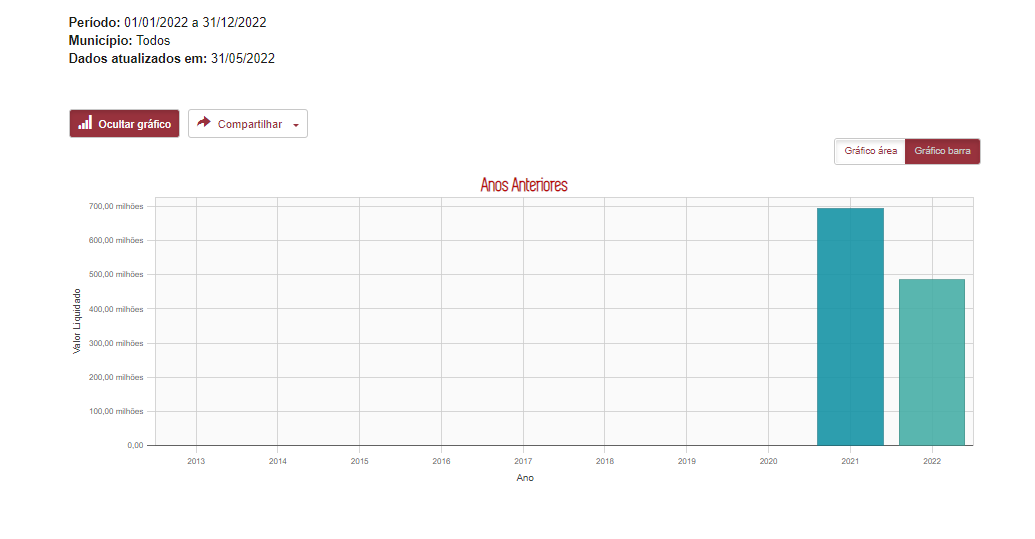
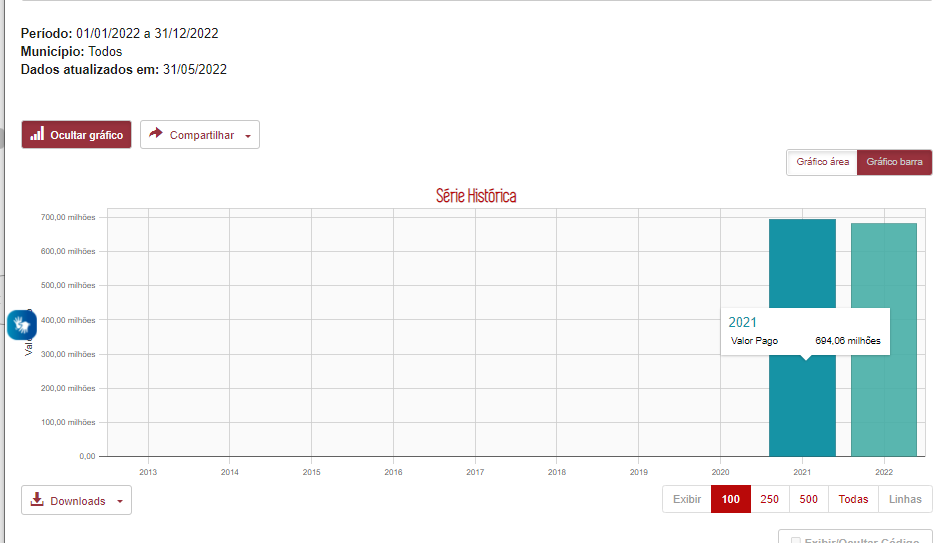
Verifica correção aplicada em 13/06/2022

diff --git a/espec018_recursos-acordo-judicial-vale/recursos-vale-homologa-layout-parte4.md b/espec018_recursos-acordo-judicial-vale/recursos-vale-homologa-layout-parte4.md
@@ -14,23 +14,36 @@ output:
 
 #### ERROS PENDENTES DE CORREÇÃO E/OU VERIFICAÇÃO
 
-## O resultado da consulta não corresponde ao período selecionado
 
-**Não corrigido** - Verificado em 26/05/2022
+<div class="alert alert-success">
+
+**CORRIGIDO** - Verificado em 13/06/2022
+--
+## O resultado da consulta não corresponde ao período selecionado
 
 Ao selecionar apenas o período de 2022 para o órgão Controladoria Geral do Estado a tabela de resultados apresenta valores zerados e quando é clicado no detalhamento os empenhos listados correspondem ao exercício de 2021.
 
 O empenho citado como exemplo apenas foi inscrito em RP em 2022 não havendo nenhuma execução referente a ele. Nesse sentido, ele deve ser exibido apenas quando houver liquidação e/ ou pagamento .
 
 ![](static/imagens/homologacao/empenho-nao-corresponde-periodo.gif)
-
+</div>
 ----
 
+<div class="alert alert-success">
+
+**CORRIGIDO** - Verificado em 13/06/2022
+--
 ## Trocar nome de 'todas' para 'todos', pois órgão é uma palavra masculina
 
 ![](static/imagens/homologacao/todas.png)
+</div>
 
 ---
+<div class="alert alert-danger">
+
+**CORRIGIDO PARCIALMENTE** - Verificado em 13/06/2022
+--
+A mensagem foi aplicada apenas no filtro "Favorecido por nome". Favor colocar a mensagem no filtro "Favorecido por CNPJ/CPF"
 
 ## Filtro favorecido da consulta por Execução
 
@@ -39,9 +52,15 @@ Ao clicar no filtro 'Favorecido por nome' ou Favorecido por CPF/CNPJ' e não esc
 Caso não seja possível a busca por todos os Favorecido o Portal deve apresentar uma mensagem informando que é preciso selecionar um favorecido, assim como ocorre atualmente nas consultas que se encontram em produção no PDT.
 
 ![](static/imagens/homologacao/filtro-favorecido.gif)
-
+</div>
 
 ---
+
+<div class="alert alert-success">
+
+**CORRIGIDO** - Verificado em 13/06/2022
+---
+
 ## Legenda da tabela ao selecionar o filtro favorecido
 
 Ao selecionar um Favorecido a legenda da tabela de resultados não está sendo exibida.
@@ -49,8 +68,13 @@ Ao selecionar um Favorecido a legenda da tabela de resultados não está sendo e
 Exemplo: [Consulta de Despesa](https://www.transparencia.mg.gov.br/despesa-estado/despesa/despesa-favorecidos/2022/01-01-2022/31-12-2022/0/CONSTRUTORA%20CENTRO%20LESTE%20ENGENHARIA/0/3)
 
 
-![](static/imagens/homologacao/filtro-favorecido-legenda.gif)
+![](static/imagens/homologacao/filtro-favorecido-legenda.png)
+</div>
+---
 
+<div class="alert alert-success">
+
+**CORRIGIDO** - Verificado em 13/06/2022
 ---
 
 ## Formatação dos textos
@@ -65,14 +89,23 @@ O fato está acontecendo no cabeçalho de todas as consultas.
 
 ![](static/imagens/homologacao/formatacao-anexo.png)
 
+</div>
 
 ---
+<div class="alert alert-success">
+
+**CORRIGIDO** - Verificado em 13/06/2022
+---
+
 ## Exibir/Ocultar filtros - pesquisa básica
 
 Conforme sugestão, favor desabilitar o botão onde não há coluna a ser exibida.
 
 Sugestão Prodemge:
 Nota: Sugiro que o botão exibir/oculta código fique desabilitado ou invisível nas consultas onde não há coluna de código a ser exibida. Assim que confirmado, podemos realizar o ajuste
+
+![](static/imagens/homologacao/ocultar-exibir-inativo.png)
+</div>
 
 ---
 ## Exibir/Ocultar filtros - Monte sua pesquisa
@@ -114,6 +147,12 @@ Exemplo 2 - Existe paginação, porém ao solicitar a exibição de todas as lin
 ![](static/imagens/homologacao/subtotal-paginacao2.gif)
 
 ---
+
+<div class="alert alert-success">
+
+**CORRIGIDO** - Verificado em 13/06/2022
+---
+
 ## Legenda do Gráfico
 
 **Consulta Por Execução - Gráfico de barras:** Trocar a legenda valor liquidado para "Valor Total Pago", pois o gráfico refere-se ao valor total Pago
@@ -124,14 +163,35 @@ Exemplo 2 - Existe paginação, porém ao solicitar a exibição de todas as lin
 **Consulta Transferência por Município - Gráfico de barras:** Trocar a legenda valor liquidado para "Valor Pago", pois o gráfico refere-se ao valor Pago.
 
 ![](static/imagens/homologacao/legenda-grafico2.png)
+</div>
 
+<div class="alert alert-danger">
+
+**CORRIGIDO PARCIALMENTE** - Verificado em 13/06/2022
+---
+Ficou pendente a correção do item 1 "*O gráfico deve-se referir a Classificação da Receita e não a Fonte de Recurso;*"
+
+![](static/imagens/homologacao/grafico-receita.png)
+
+---
 **Consulta Por Receita - Gráfico de barras:**
 
 1.  O gráfico deve-se referir a Classificação da Receita e não a Fonte de Recurso;
-2.  Trocar a legenda valor liquidado para "Valor Arrecadado".
+</div>
+<div class="alert alert-success">
+
+**CORRIGIDO** - Verificado em 13/06/2022
+---
 
 ![](static/imagens/homologacao/legenda-grafico3.png)
 
+</div>
+
+---
+
+<div class="alert alert-success">
+
+**CORRIGIDO** - Verificado em 13/06/2022
 ---
 
 ## Título do Gráfico
@@ -139,6 +199,7 @@ Exemplo 2 - Existe paginação, porém ao solicitar a exibição de todas as lin
 O título dos gráficos de barra devem ser 'Série Histórica'
 
 ![](static/imagens/homologacao/legenda-grafico4.png)
+</div>
 
 ---
 ## Valores do Gráfico
@@ -161,6 +222,11 @@ A funcionalidade foi aplicada apenas na consulta básica a pesquisa avançada ai
 
 
 ---
+<div class="alert alert-success">
+
+**CORRIGIDO** - Verificado em 13/06/2022
+---
+
 ## Migalhas / Cabeçalho
 
 **Não corrigido** - Verificado em 26/05/2022
@@ -171,7 +237,8 @@ Nesse questionamento foi realizado a alteração para exibição da descrição 
 
 O exemplo abaixo demonstra que ao selecionar o órgão DEER esse possui 4 projetos. Caso o usuário selecione algum projeto ele não saberá identificar pelo cabeçalho da tabela e migalha a qual projeto pertence a lista de empenhos. Assim é necessário retornar e fazer uma nova busca.
 
-![](static/imagens/homologacao/arvore-execucao.gif)
+![](static/imagens/homologacao/migalhas-codigo.png)
+</div>
 
 ----
 ## Download PDF - pesquisa básica
@@ -234,11 +301,18 @@ Favor desabitar a opção "Exportar" para o formulário de detalhamento, pois a 
 Essa funcionalidade será melhor estudada para futurar intervenções.
 
 ---
+<div class="alert alert-success">
+
+**CORRIGIDO** - Verificado em 13/06/2022
+---
+
 ## Outras informações - Formulário de detalhamento
 
 - O título da tabela está errado. Mudar parada 'Dados do Processo de Compra'
 
 ![](static/imagens/homologacao/outras-informacoes-processo-compra.png)
+
+</div>
 
 ---
 ## Filtro por Órgão
@@ -248,19 +322,29 @@ Ao selecionar o período de 01/01/2021 a 31/12/2021 e o órgão: 'Departamento d
 ![](static/imagens/homologacao/filtro-orgao-2021.gif)
 
 ---
-## Botão Sair
 
-**Não Corrigido** 30/05/2022
+<div class="alert alert-success">
+
+**CORRIGIDO** - Verificado em 13/06/2022
+---
+## Botão Sair
 
 - Ao clicar no botão sair a página do Portal apresenta erro
 
 ![](static/imagens/homologacao/botao-sair.gif)
+</div>
 
+---
+
+<div class="alert alert-success">
+
+**CORRIGIDO** - Verificado em 13/06/2022
 ---
 ## Adicionar/Remover colunas - Marcar/Desmarcar todos
 O botão até foi incluído, porém ele deve ser estilisticamente diferente dos filtros
 
 ![](static/imagens/homologacao/adcionar-remover-colunas.png)
+</div>
 
 ---
 ## Tabela Modal - Monte sua pesquisa
@@ -305,26 +389,43 @@ A depender do filtro que o usuário está usando ao clicar no botão detalhar el
 ![](static/imagens/homologacao/detalhar-monte-sua-pesquisa.gif)
 
 ---
+<div class="alert alert-success">
+
+**CORRIGIDO** - Verificado em 13/06/2022
+---
+
 ## Paginação tabela de resultados - Monte sua pesquisa
 
  A tabela de resultados do "Monte sua pesquisa" não está exibindo a opção de selecionar a quantidade de linhas, conforme padrão adotado nessa consulta
 
 ![](static/imagens/homologacao/paginacao-monte-sua-pesquisa.png)
+</div>
 
 ---
+<div class="alert alert-success">
+
+**CORRIGIDO** - Verificado em 13/06/2022
+---
+
 ## Subtotal/Total - tabela de resultados - Monte sua pesquisa
 
  A tabela de resultados não exibirá os campos TOTAL GERAL e o SUBTOTAL quando não houver dados referentes a valores.
 
 ![](static/imagens/homologacao/tabela-resultados-total-subtotal.png)
+</div>
 
+---
+
+<div class="alert alert-success">
+
+**CORRIGIDO** - Verificado em 13/06/2022
 ---
 ## Formatação - tabela de resultados - Monte sua pesquisa
 
 A formatação do cabeçalho da tabela deve ser alinhado à esquerda.
 
 ![](static/imagens/homologacao/formatacao-esquerda-monte-sua-pesquisa.png)
-
+</div>
 
 ---
 ## Tabelas modais - movíveis
@@ -335,11 +436,17 @@ Todas as tabelas modais (pesquisa básica e avançada) deverão ser movíveis, e
 
 
 ---
+<div class="alert alert-success">
+
+**CORRIGIDO** - Verificado em 13/06/2022
+---
+
 ## Barra de rolagem vertical
 
 Conforme relatado no issues [#71](https://github.com/transparencia-mg/especificacoes-portal-transparencia/issues/71) o O comportamento da barra de rolagem vertical não permite a visualização dos dados do início da tabela em todas as páginas da consulta
 
 ![](static/imagens/homologacao/barra-rolagem-vertical.gif)
+</div>
 
 ---
 ## Compartilhar
@@ -349,12 +456,17 @@ Conforme relatado no issues [#72](https://github.com/transparencia-mg/especifica
 ![](static/imagens/homologacao/compartilhar-link.gif)
 
 ---
+<div class="alert alert-success">
+
+**CORRIGIDO** - Verificado em 13/06/2022
+---
+
 ## Formulário de detalhamento - Dados do Processo de Compra
 
 -Nome incorreto para seção Dados do Processo de Compra no formulário de detalhamento [#73](https://github.com/transparencia-mg/especificacoes-portal-transparencia/issues/73)
 
-
-![](static/imagens/homologacao/dados-processo-compra.png)
+![](static/imagens/homologacao/dad.png)
+</div>
 
 ---
 ## Barra Vertical - CPF/CNPJ Favorecido
@@ -374,6 +486,11 @@ Abaixo segue 2 opções, valor avaliar qual a fácil de ser implementada:
 - Os dados de CPF que estão no menu *dropdown* ou na tela exibir todos deverão ser exibidos descaracterizados. Porém, quando o usuário digitar algum valor nesse campo o PDT irá realizar a busca normalmente.
 - Os dados serão exibidos descaracterizados (quando se tratar de CPF) no campo filtros aplicados,  barra vertical e tela selecionar todos.
 
+---
+<div class="alert alert-success">
+
+**CORRIGIDO** - Verificado em 13/06/2022
+---
 
 ## Monte sua pesquisa - tooltip tabela de resultados
 
@@ -383,11 +500,23 @@ Abaixo segue 2 opções, valor avaliar qual a fácil de ser implementada:
 - Acrescentar o tooltip no nome Identificador de Procedência e Uso; número do empenho, situação da ordem de pagamento
 - Alterar o nome Fonte para **Fonte de Recurso* e acrescentar o tooltip;
 
+
+![](static/imagens/homologacao/tooltip-monte-sua-consulta.gif)
+
+
+</div>
+
+<div class="alert alert-success">
+
+**Essa implementação será realizada em uma nova intervenção no PDT**
+---
+
 ## Barra Vertical - Filtro período
 
 O filtro período deve estar disposto na barra de navegação vertical e essa deve obedecer os critérios desse filtro.
 
 [Especificação - Dados](https://github.com/transparencia-mg/especificacoes-portal-transparencia/blob/master/espec018_recursos-acordo-judicial-vale/especifica%C3%A7%C3%A3o/recursos-vale-dados.md#monte-sua-pesquisa---pesquisa-avan%C3%A7ada)
+</div>
 
 ---
 ## Barra vertical - horizonte de cobertura
@@ -439,3 +568,14 @@ Na consulta por Projeto ao clicar em um projeto que não possui execução o PDT
 É possível nesse caso colocar outra mensagem: "Não existem dados de execução para esse projeto"
 
 ![](static/imagens/homologacao/mensagem.png)
+
+--
+
+## A legenda da tabela
+
+A legenda da tabela deve obedecer a navegação realizada pelo usuário.
+Exemplo:
+
+O usuário selecionou um órgão e em seguida selecionou um projeto. Nesse caso a legenda deve exibir o passa a passo realizado pelo usuário conforme ocorre atualmente nas demais consultas do Portal.
+
+![](static/imagens/homologacao/legenda-tabela.gif)
